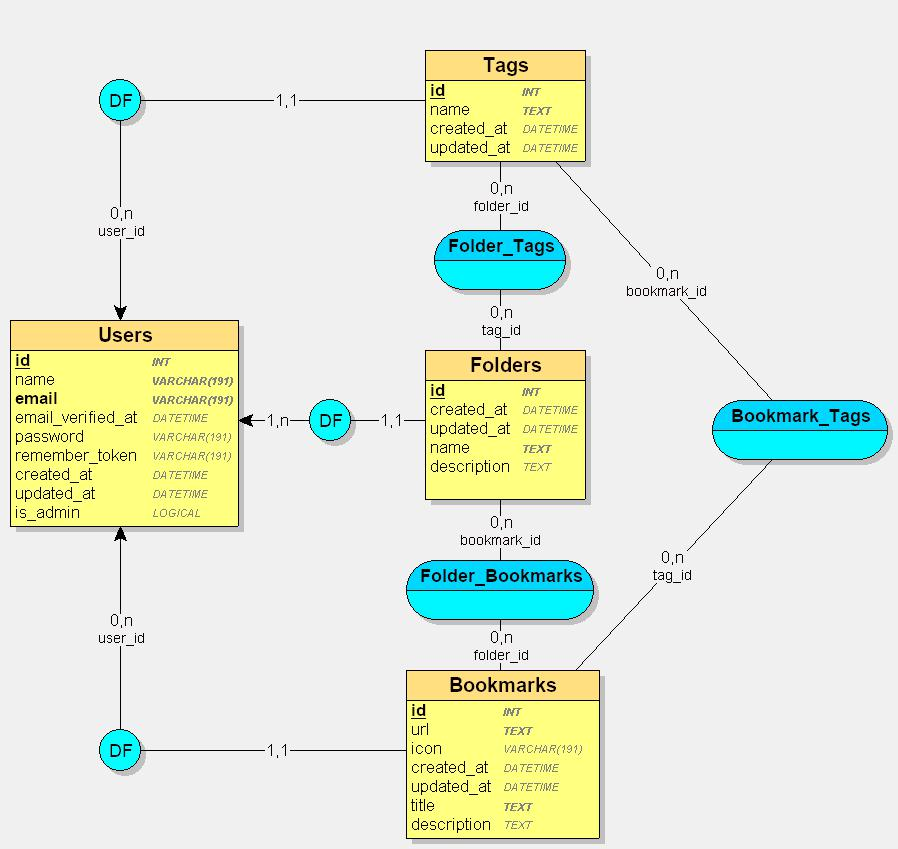
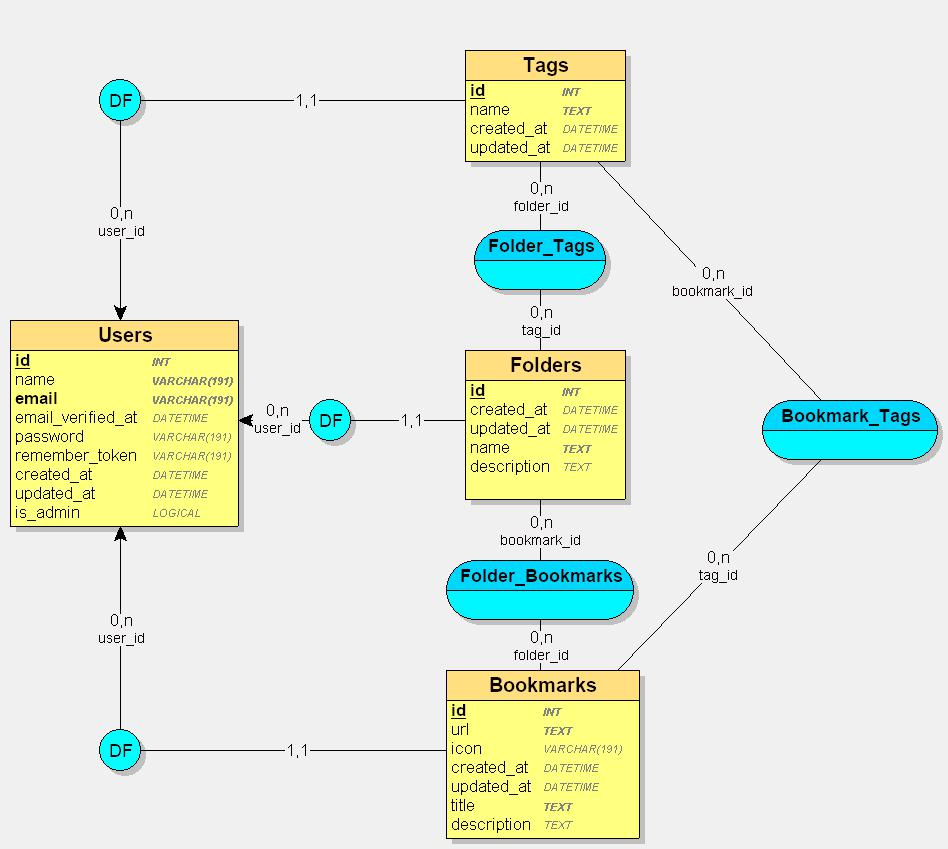
Added UserController
Added admincheck and User delete
Fixed bug in Looping MCD.
Added is_admin to user columns

diff --git a/database/seeders/TagsiesSeeder.php b/database/seeders/TagsiesSeeder.php
@@ -20,23 +20,23 @@ class TagsiesSeeder extends Seeder
     {
         // Generate users, categories and tags
         User::factory()->create();
-        $tags = Tag::factory()->count(30)->create();
-        $folders = Folder::factory()->count(10)->create()->each(function (Folder $folder) use ($tags) {
-            if (random_int(0, 1)) {
-                // Attach a random number of tags to the folder
-                $folder->tags()->sync($tags->random(random_int(1, 8)));
-            }
-        });
-        // Generate bookmarks and attach tags to them
-        Bookmark::factory()->count(15)->create()->each(function (Bookmark $bookmark) use ($tags, $folders) {
-            if (random_int(0, 1)) {
-                // Attach a random number of tags to the link
-                $bookmark->tags()->sync($tags->random(random_int(1, 8)));
-            }
-            if (random_int(0, 1)) {
-                // Attach a random number of folders to the link
-                $bookmark->folders()->sync($folders->random(random_int(1, 2)));
-            }
-        });
+        // $tags = Tag::factory()->count(30)->create();
+        // $folders = Folder::factory()->count(10)->create()->each(function (Folder $folder) use ($tags) {
+        //     if (random_int(0, 1)) {
+        //         // Attach a random number of tags to the folder
+        //         $folder->tags()->sync($tags->random(random_int(1, 8)));
+        //     }
+        // });
+        // // Generate bookmarks and attach tags to them
+        // Bookmark::factory()->count(15)->create()->each(function (Bookmark $bookmark) use ($tags, $folders) {
+        //     if (random_int(0, 1)) {
+        //         // Attach a random number of tags to the link
+        //         $bookmark->tags()->sync($tags->random(random_int(1, 8)));
+        //     }
+        //     if (random_int(0, 1)) {
+        //         // Attach a random number of folders to the link
+        //         $bookmark->folders()->sync($folders->random(random_int(1, 2)));
+        //     }
+        // });
     }
 }

diff --git a/app/Http/Controllers/UserController.php b/app/Http/Controllers/UserController.php
@@ -1,0 +1,42 @@
+<?php
+
+namespace App\Http\Controllers;
+
+use App\Models\Bookmark;
+use App\Models\Folder;
+use App\Models\User;
+use Illuminate\Contracts\View\View;
+use Illuminate\Http\Request;
+use Illuminate\Support\Facades\Auth;
+
+class UserController extends Controller
+{
+    protected $model = User::class;
+
+    /**
+     * Check if user is admin
+     * @return View
+     */
+    public function checkAdmin()
+    {
+        $users = User::all();
+
+        if (Auth::user()->is_admin) {
+            return view("admin/index")->with("users", $users);
+        } else {
+            return view("home");
+        }
+    }
+
+    /**
+     * Delete user TODO: and ressources
+     */
+    public function delete($id)
+    {
+        $user = User::findOrFail($id);
+        $user->delete();
+        $users = User::all();
+
+        return redirect()->route("admin.index")->with("users", $users);
+    }
+}

diff --git a/database/migrations/2022_10_15_053448_add_is_admin_to_users_table.php b/database/migrations/2022_10_15_053448_add_is_admin_to_users_table.php
@@ -1,0 +1,32 @@
+<?php
+
+use Illuminate\Database\Migrations\Migration;
+use Illuminate\Database\Schema\Blueprint;
+use Illuminate\Support\Facades\Schema;
+
+return new class extends Migration
+{
+    /**
+     * Run the migrations.
+     *
+     * @return void
+     */
+    public function up()
+    {
+        Schema::table('users', function (Blueprint $table) {
+            $table->boolean('is_admin')->default(false)->after("email");
+        });
+    }
+
+    /**
+     * Reverse the migrations.
+     *
+     * @return void
+     */
+    public function down()
+    {
+        Schema::table('users', function (Blueprint $table) {
+            $table->dropColumn('is_admin');
+        });
+    }
+};

diff --git a/routes/web.php b/routes/web.php
@@ -1,5 +1,6 @@
 <?php
 
+use App\Http\Controllers\UserController;
 use App\Models\Bookmark;
 use App\Models\Folder;
 use App\Models\Tag;
@@ -19,3 +20,7 @@ use Illuminate\Support\Facades\Route;
 Route::get("/", function () {
 	return view("home");
 })->middleware("auth");
+
+Route::get('admin', [UserController::class, 'checkAdmin'])->middleware('auth')->name("admin.index");
+Route::post('admin', [UserController::class, 'delete'])->middleware('auth');
+Route::delete('admin/{id}', [UserController::class, 'delete'])->middleware('auth')->name("user.destroy");

diff --git a/resources/views/admin/index.blade.php b/resources/views/admin/index.blade.php
@@ -1,0 +1,16 @@
+@extends('layouts.app')
+
+@foreach ($users as $user)
+{{ $user->name }}
+@if ($user->is_admin)
+Admin
+@else
+User
+@endif
+<form style="display:inline" action="{{ route("user.destroy", $user->id) }}" method="post">
+    @csrf
+    @method('delete')
+    <input style="display:inline" type="submit" value="Delete!">
+</form>
+<br>
+@endforeach
